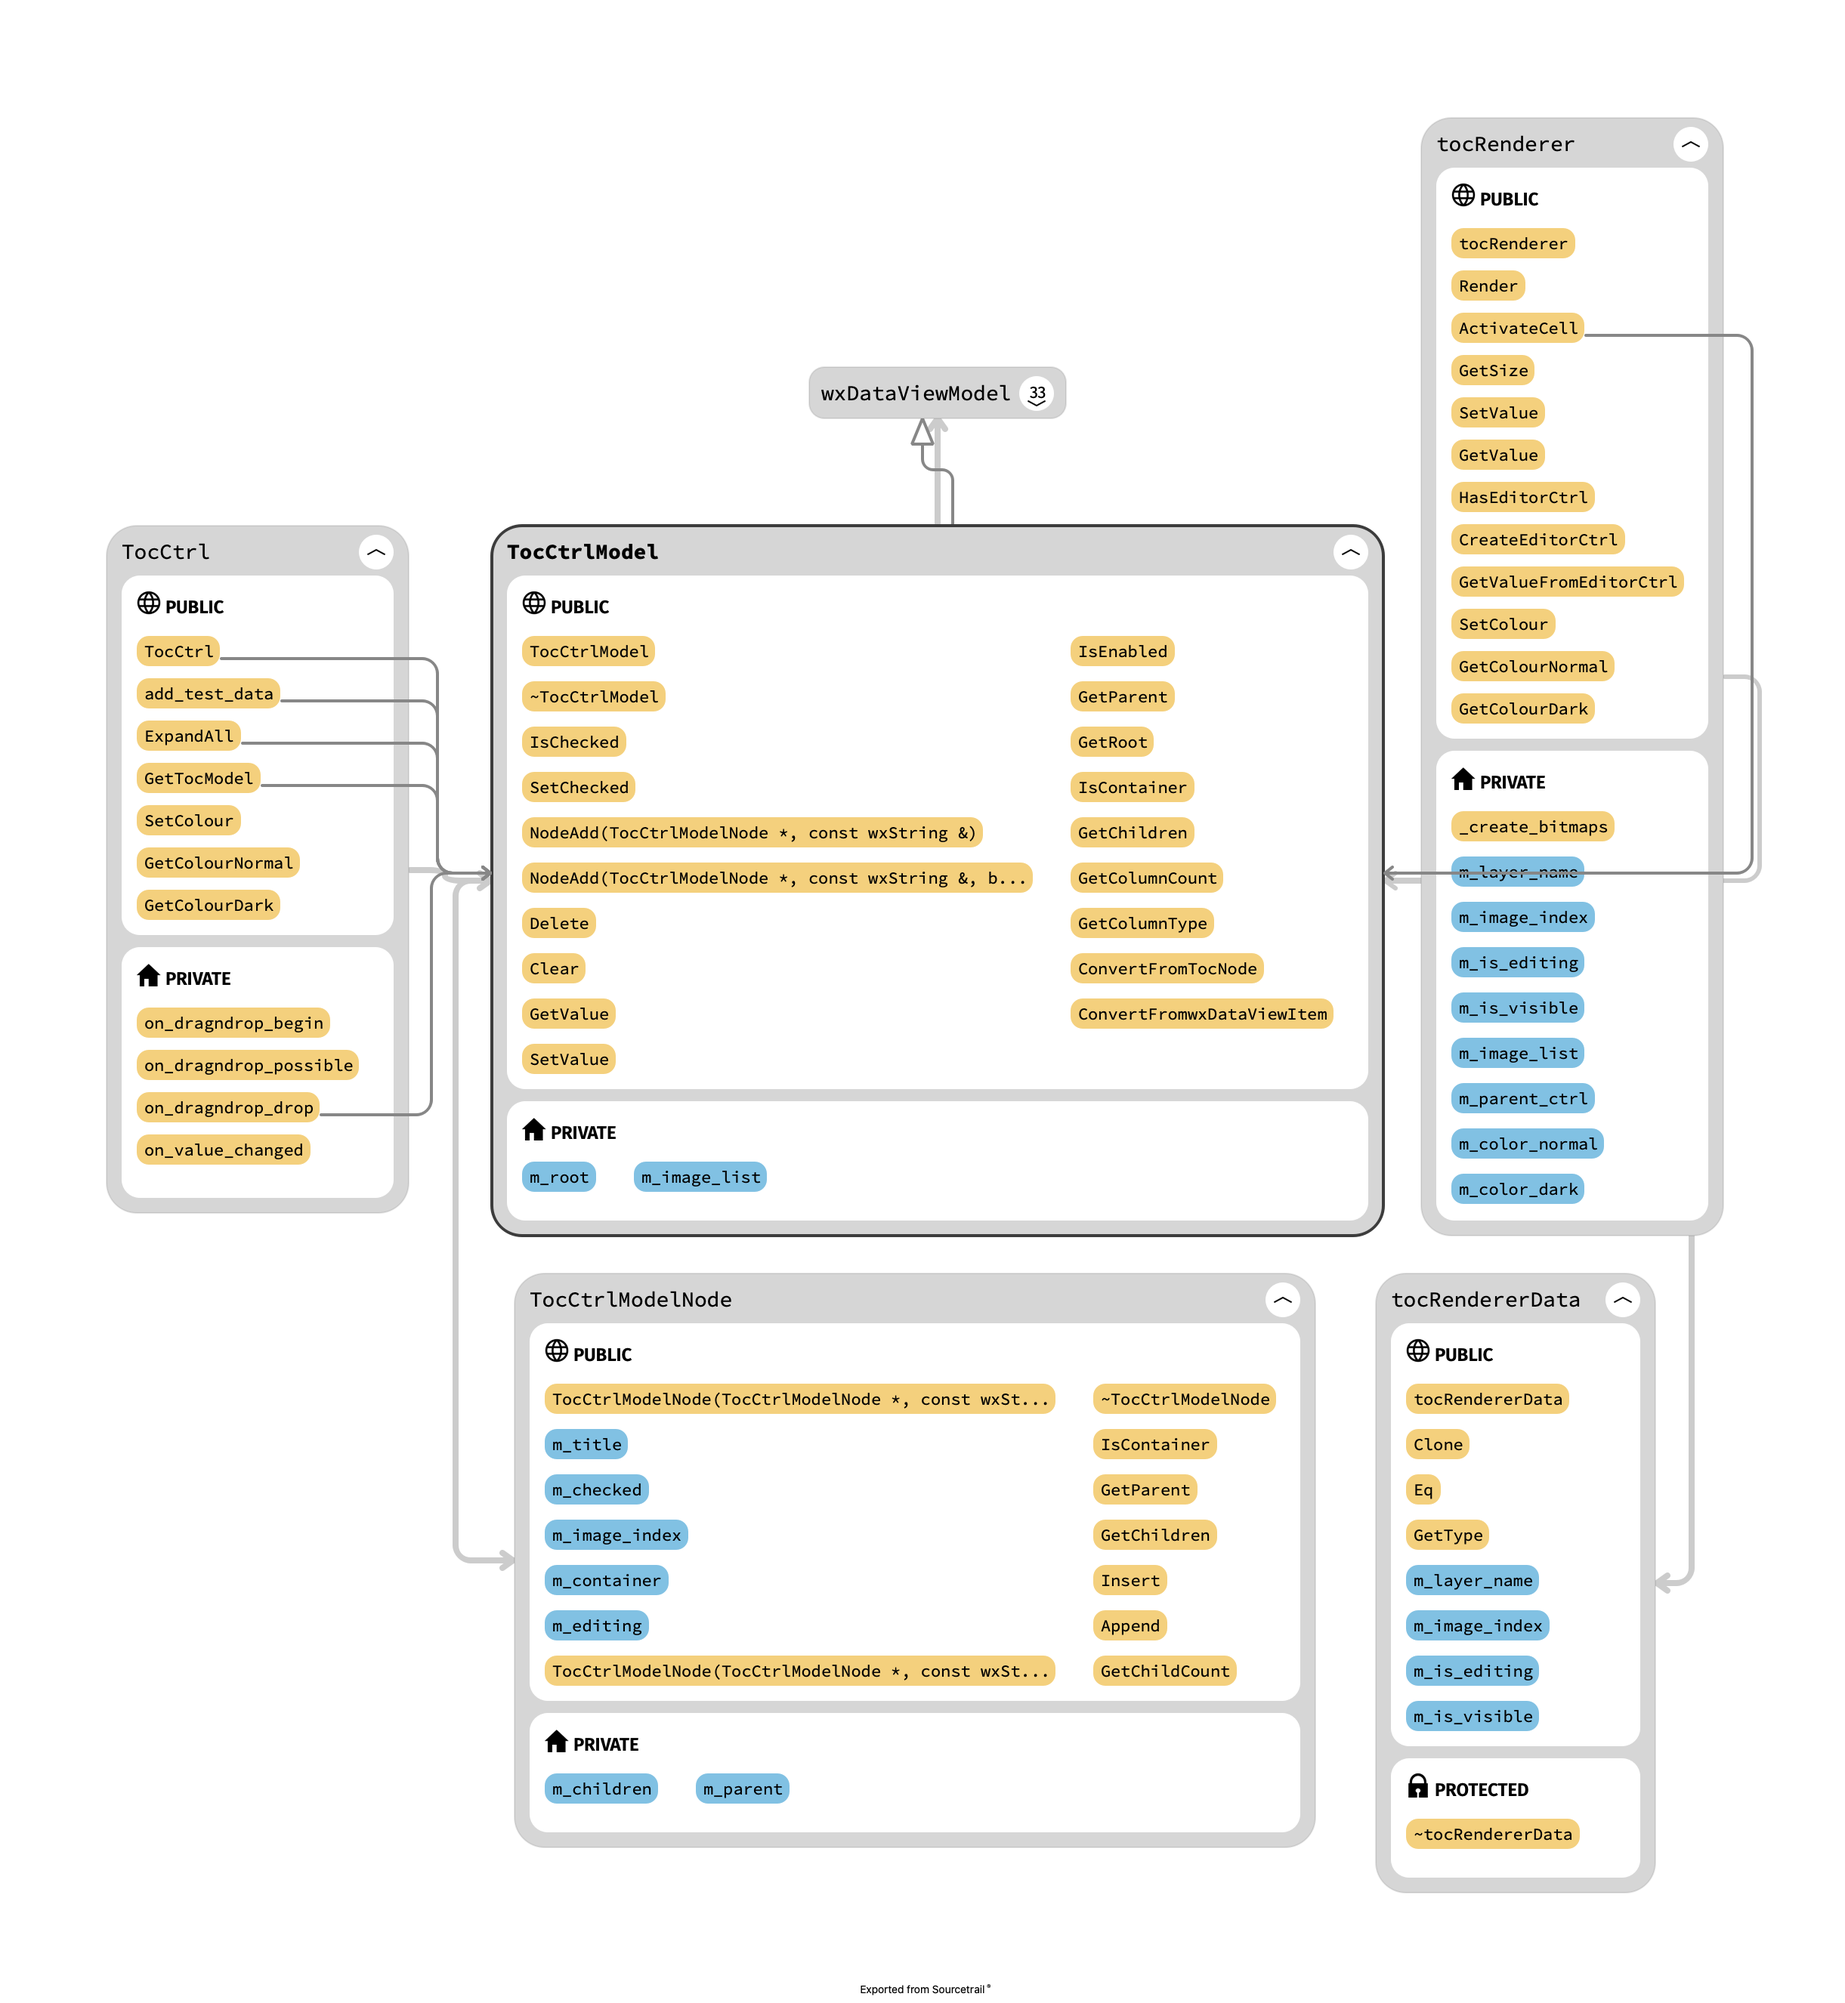
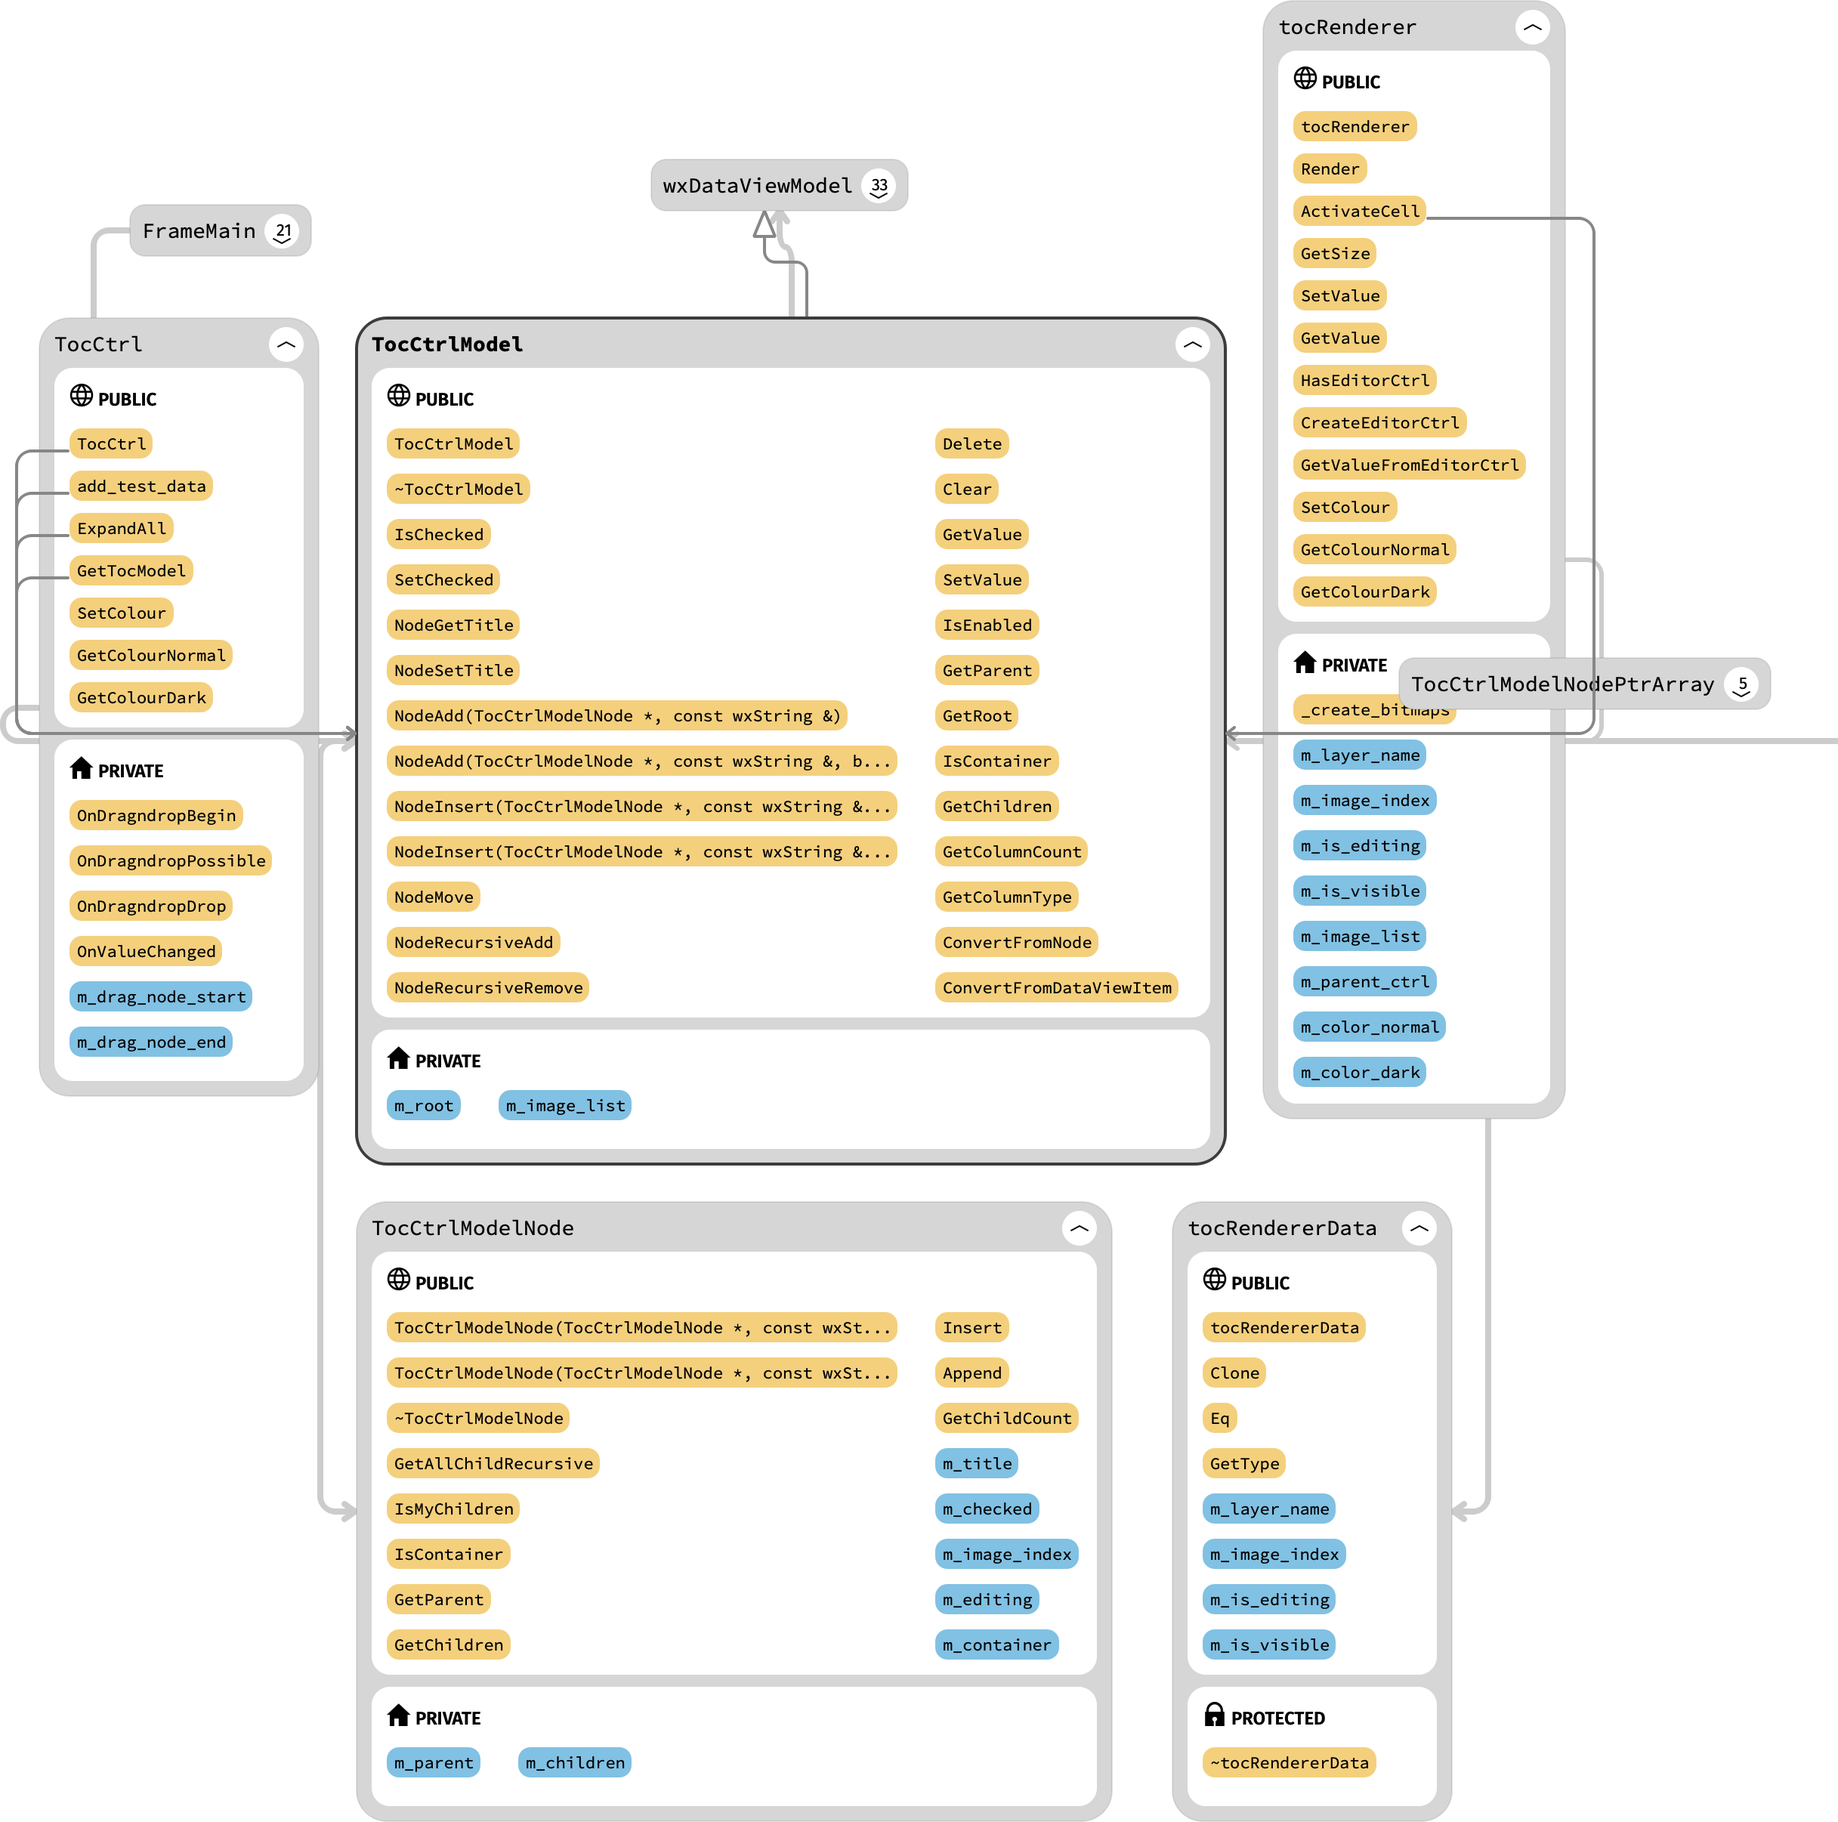
see #477 Adding a check to avoid dragndrog container on myself

diff --git a/apps/feature_toc/src/tocctrl.cpp b/apps/feature_toc/src/tocctrl.cpp
@@ -14,7 +14,6 @@ TocCtrl::TocCtrl(wxWindow *parent, wxWindowID id)
   EnableDragSource(wxDF_UNICODETEXT);
   EnableDropTarget(wxDF_UNICODETEXT);
 
-
   // Column definition
   auto *cr = new tocRenderer(wxDATAVIEW_CELL_ACTIVATABLE, (wxDataViewTreeCtrl *)this);
   auto *column5 = new wxDataViewColumn("custom", cr, 0, wxCOL_WIDTH_DEFAULT, wxALIGN_LEFT, wxDATAVIEW_COL_RESIZABLE);
@@ -106,11 +105,18 @@ void TocCtrl::OnDragndropDrop(wxDataViewEvent &event) {
 
   int my_proposed_drop_index = event.GetProposedDropIndex();
   if (target_item.IsOk()) {
-    auto * target_node = TocCtrlModel::ConvertFromDataViewItem(target_item);
+    auto *target_node = TocCtrlModel::ConvertFromDataViewItem(target_item);
     m_drag_node_end = target_node;
 
+    // veto if trying to drop on myself
+    if (m_drag_node_end == m_drag_node_start) {
+      wxLogError("Unable to drop on myself!");
+      event.Veto();
+      return;
+    }
+
     // veto if trying to drop to a child of the container
-    if (m_drag_node_start->IsMyChildren(m_drag_node_end)){
+    if (m_drag_node_start->IsMyChildren(m_drag_node_end)) {
       wxLogError("Unable to drop on a child!");
       event.Veto();
       return;
@@ -118,29 +124,27 @@ void TocCtrl::OnDragndropDrop(wxDataViewEvent &event) {
 
     // item dropped between elements
     if (my_model->IsContainer(target_item)) {
-      if (my_proposed_drop_index == wxNOT_FOUND){
+      if (my_proposed_drop_index == wxNOT_FOUND) {
         my_proposed_drop_index = 0;
       }
       wxLogMessage("Text '%s' dropped in container '%s' (proposed index = %d)", obj.GetText(),
-                   my_model->NodeGetTitle(target_node),
-                   my_proposed_drop_index);
-    } else { // item dropped on another item
+                   my_model->NodeGetTitle(target_node), my_proposed_drop_index);
+    } else {  // item dropped on another item
       TocCtrlModelNodePtrArray my_parent_array = target_node->GetParent()->GetChildren();
       my_proposed_drop_index = 0;
-      for (int i = 0; i< my_parent_array.GetCount();i++) {
-        if (my_parent_array[i] == target_node){
+      for (int i = 0; i < my_parent_array.GetCount(); i++) {
+        if (my_parent_array[i] == target_node) {
           my_proposed_drop_index = i;
         }
       }
       wxLogMessage("Text '%s' dropped on target_item '%s', index %d", obj.GetText(),
                    my_model->NodeGetTitle(target_node), my_proposed_drop_index);
     }
-  } else { // item dropped on background
+  } else {  // item dropped on background
     my_proposed_drop_index = wxNOT_FOUND;
     wxLogMessage("Text '%s' dropped on background (proposed index = %d)", obj.GetText(), my_proposed_drop_index);
   }
   my_model->NodeMove(m_drag_node_start, m_drag_node_end, my_proposed_drop_index);
-
 }
 
 void TocCtrl::OnValueChanged(wxDataViewEvent &event) {
